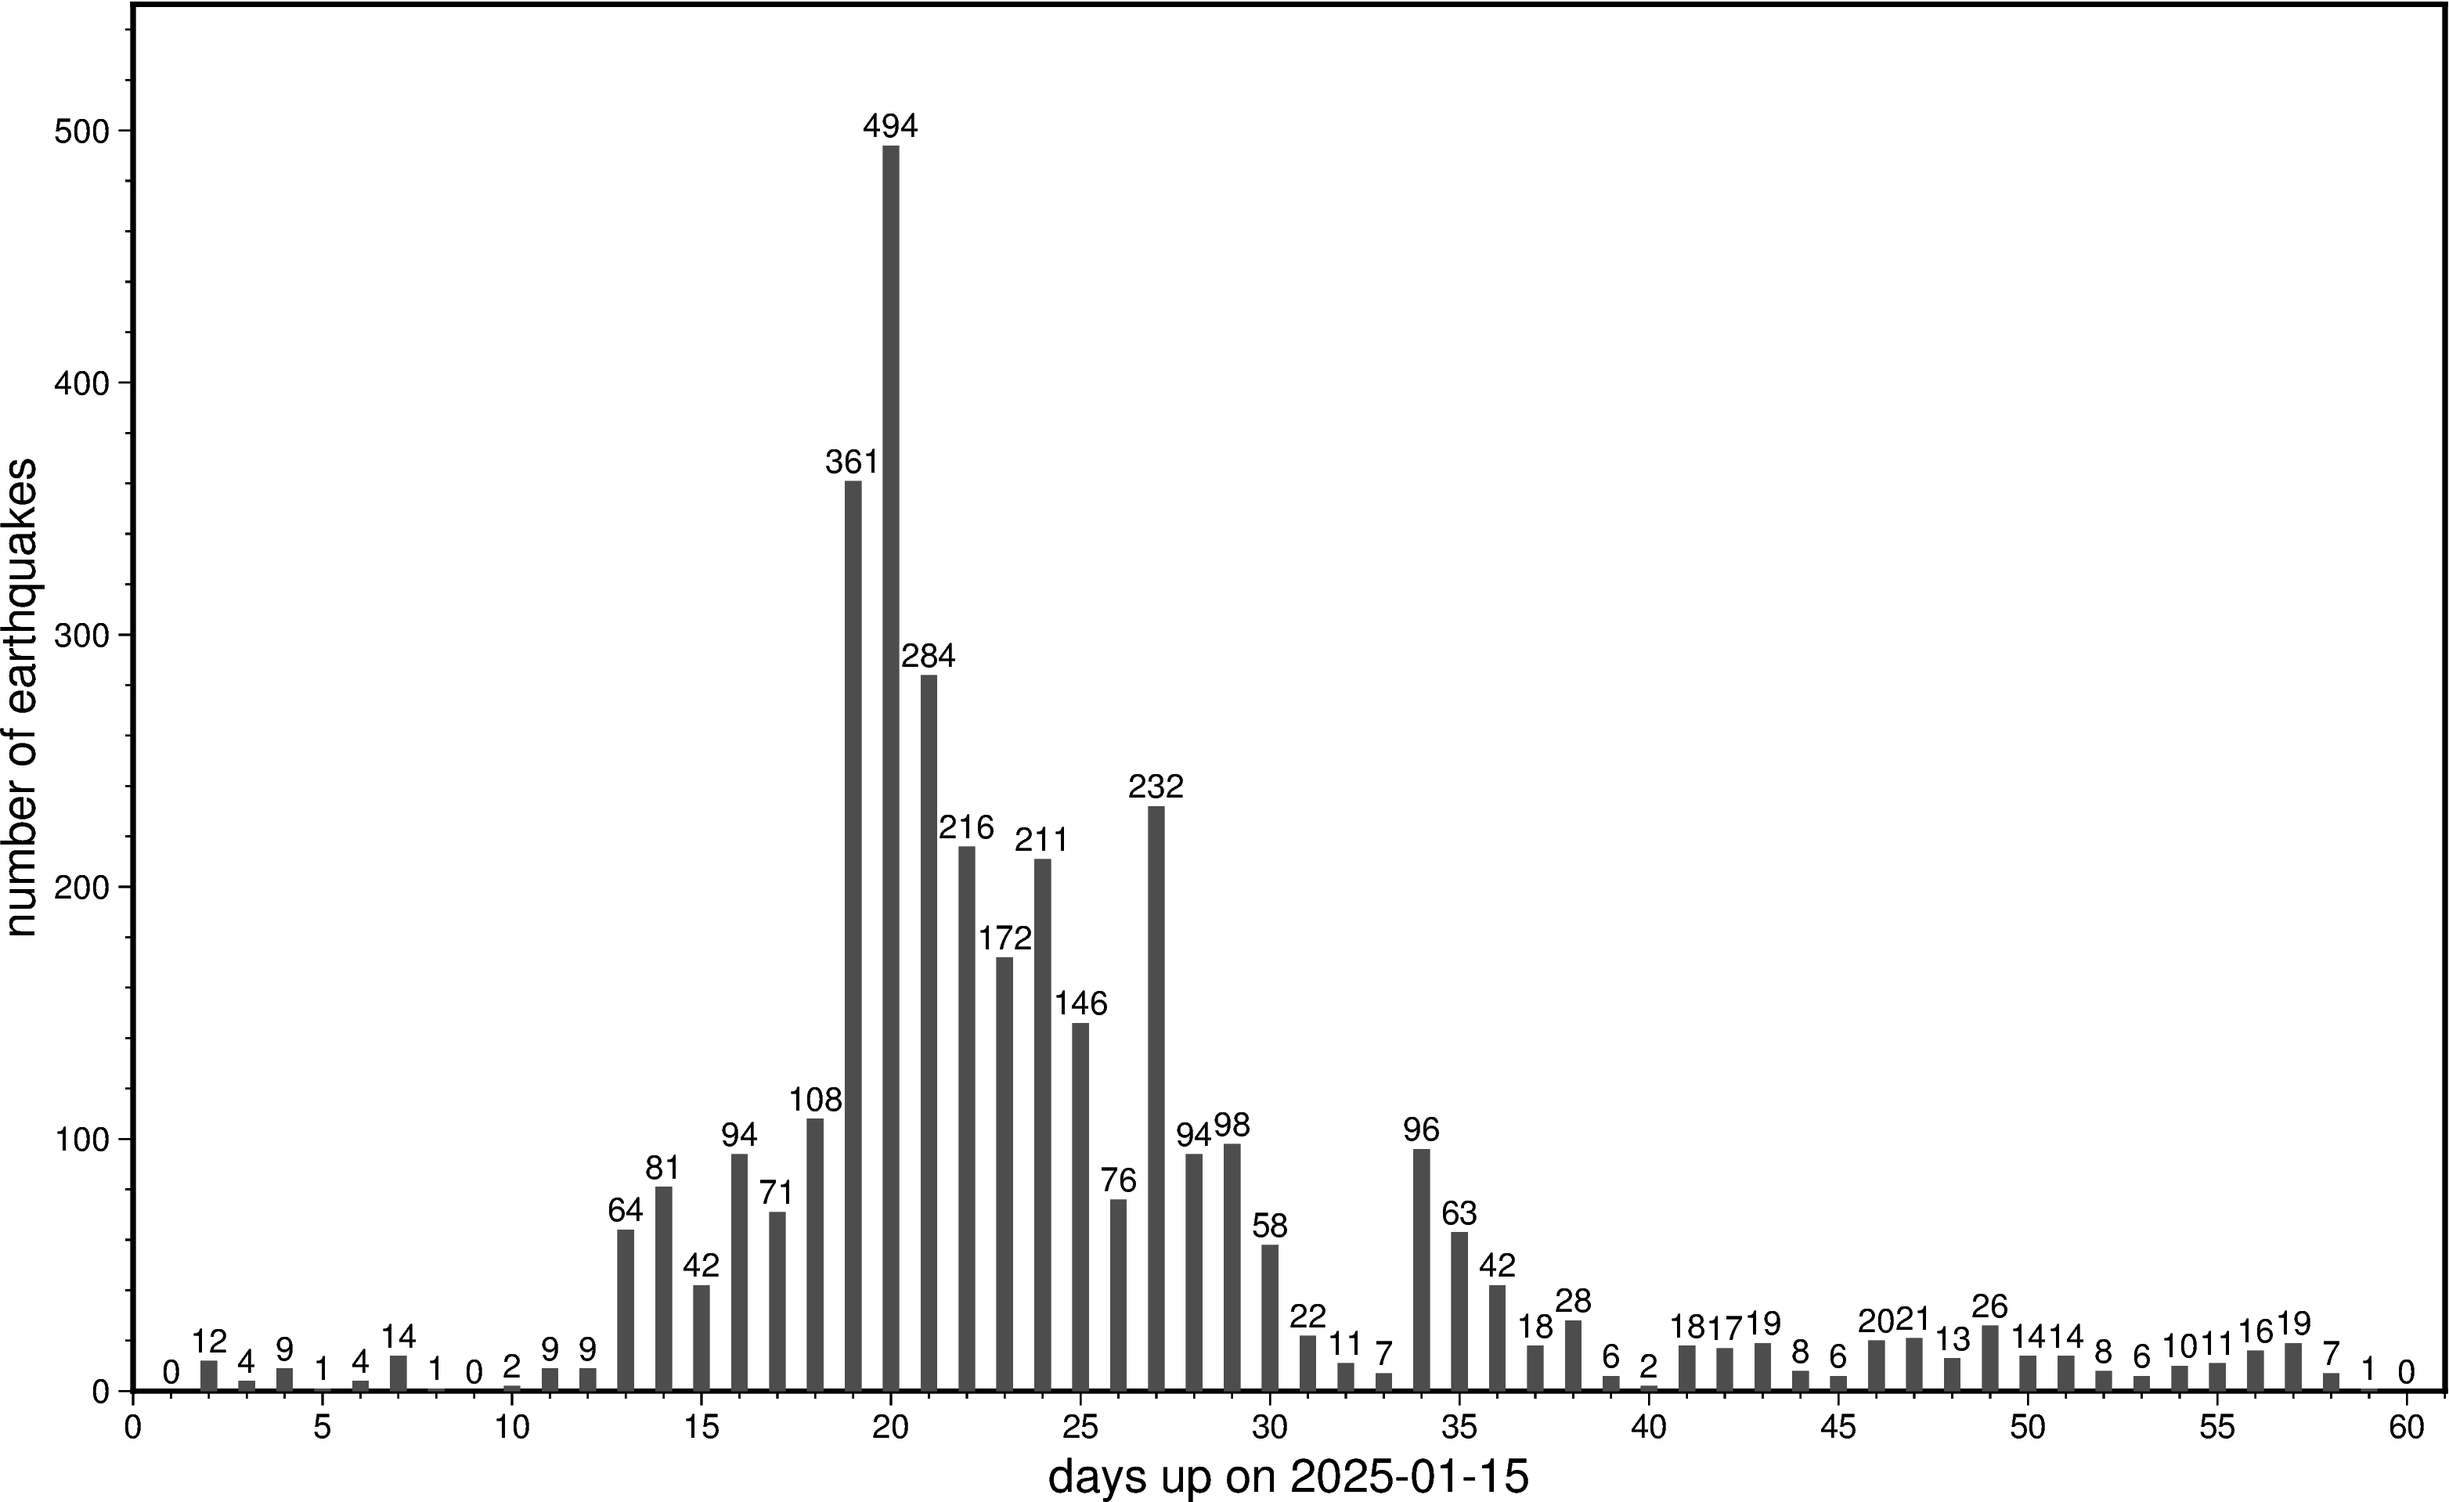
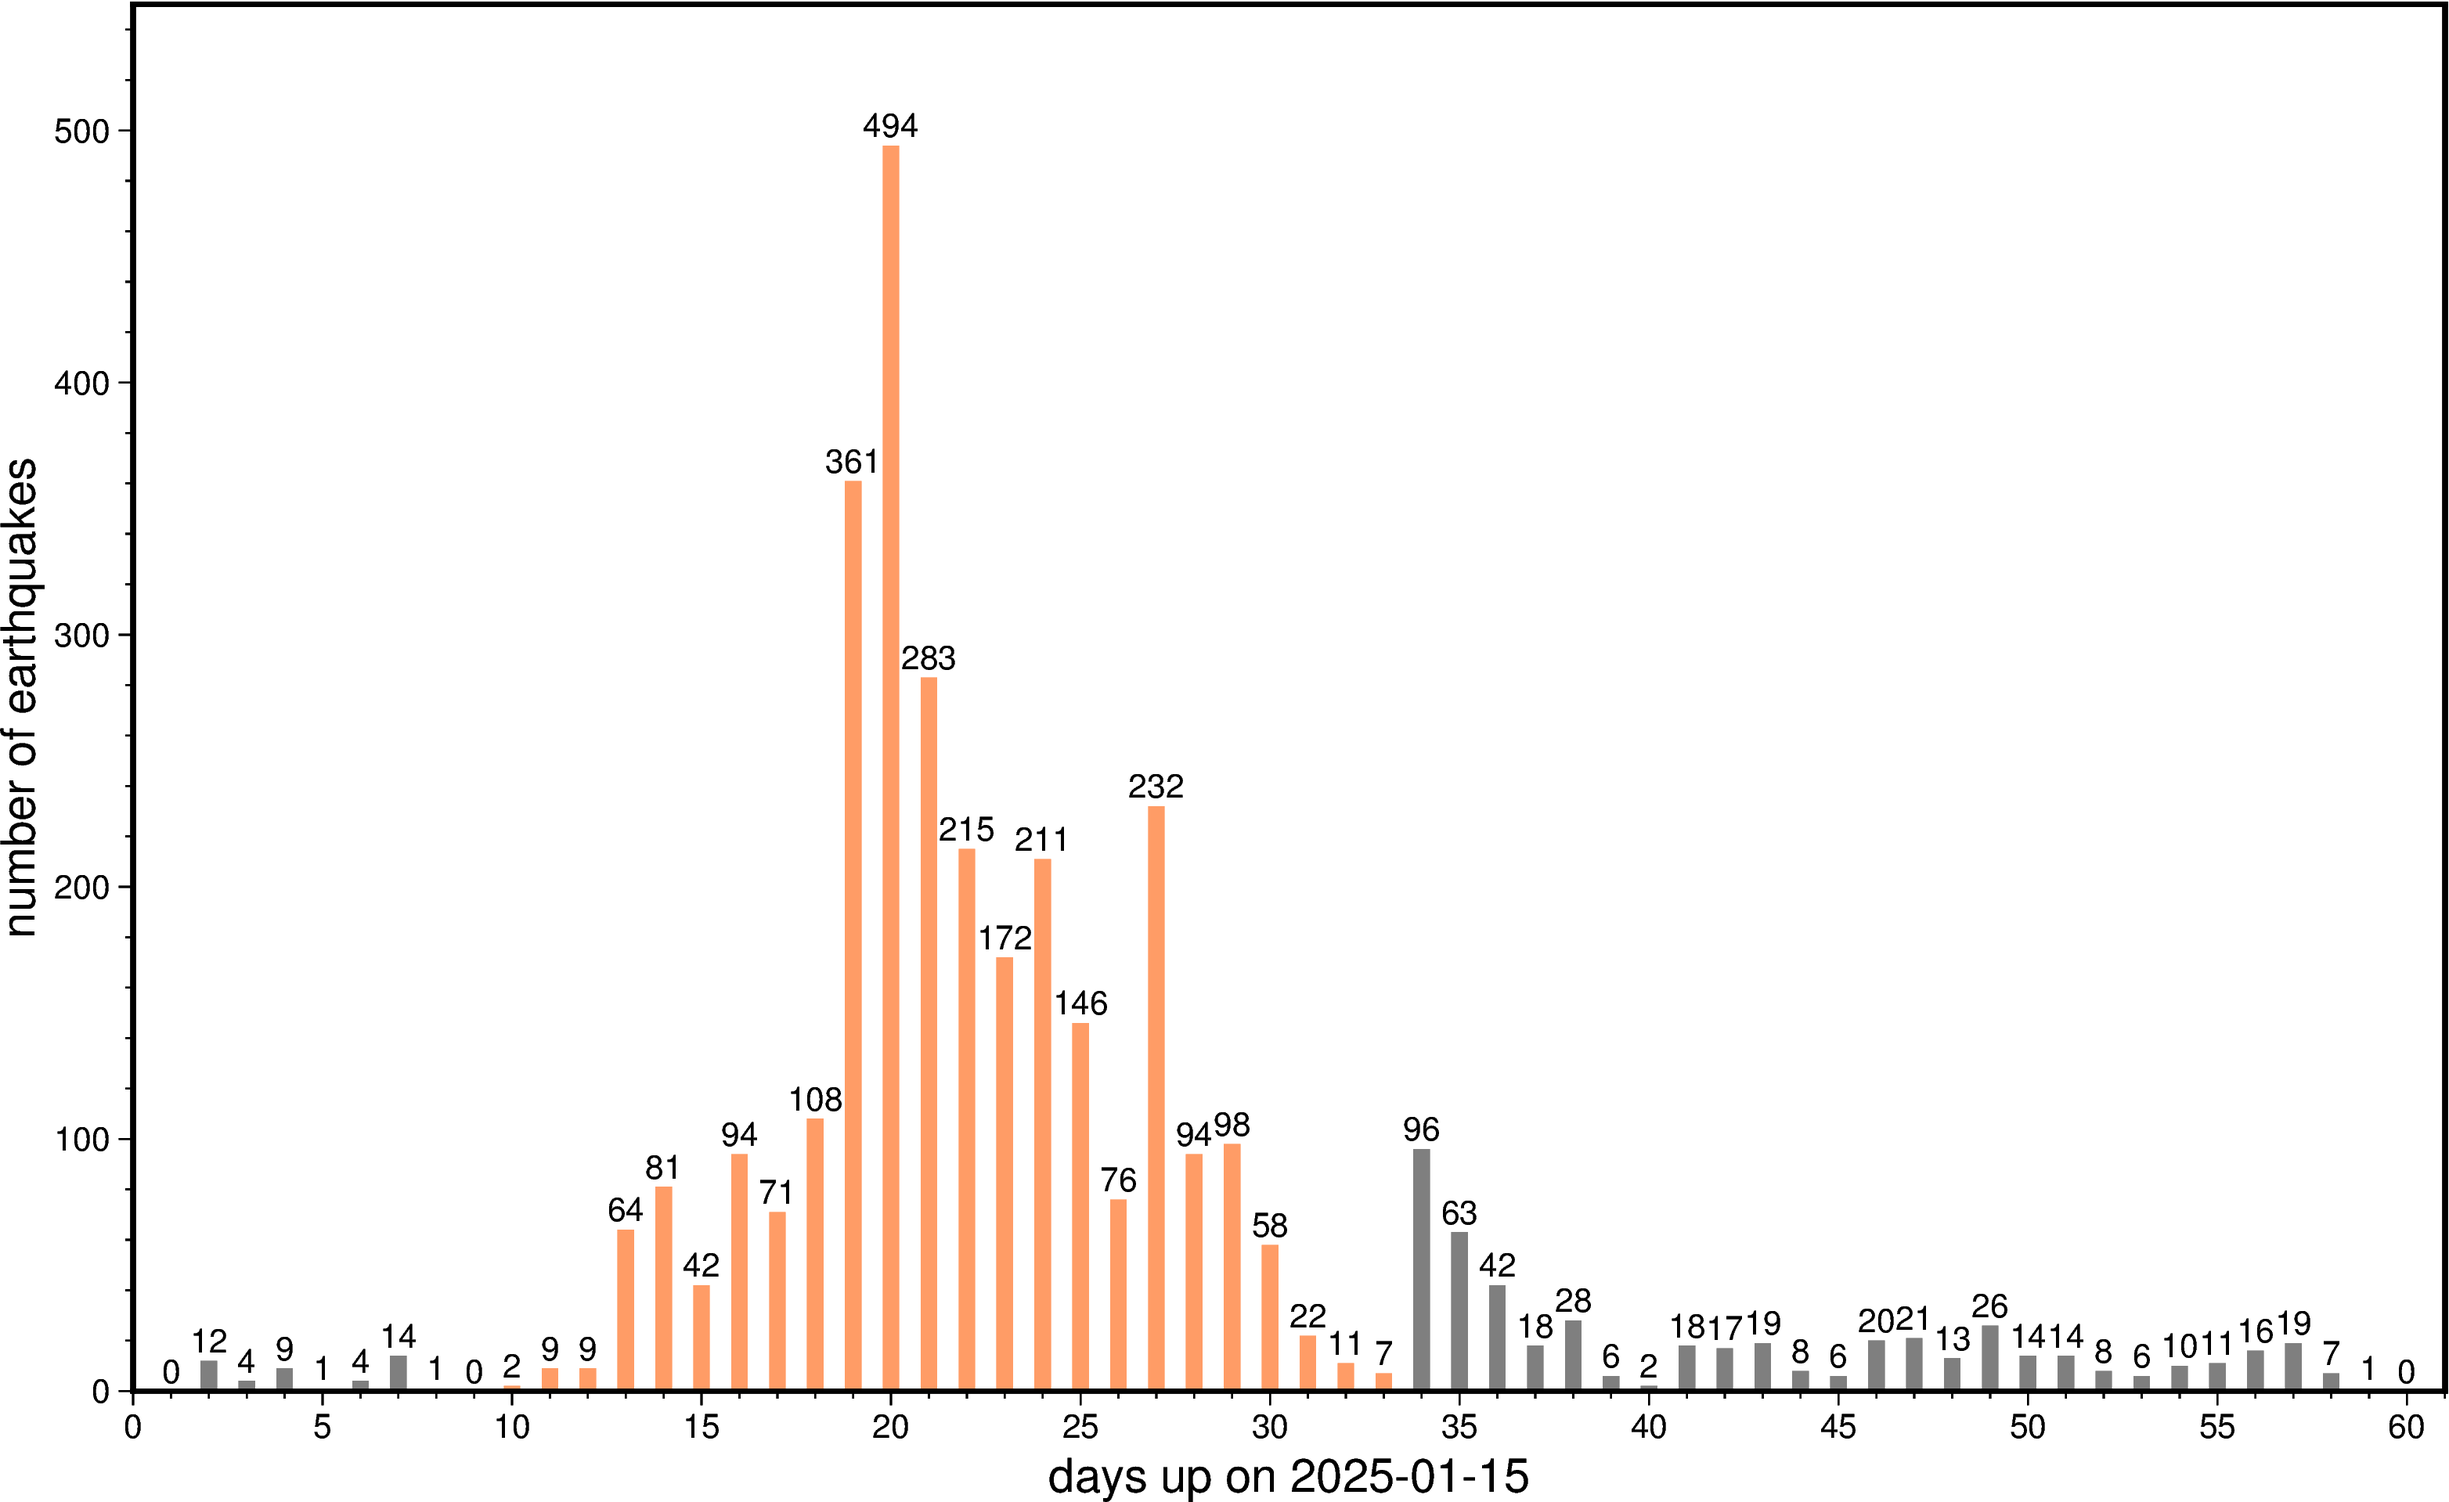
Add histograms for magnitude distribution per day

diff --git a/015_santorini_earthquakes/santorini_earthquakes.py b/015_santorini_earthquakes/santorini_earthquakes.py
@@ -84,17 +84,62 @@ df_eq = df_eq_raw[df_eq_raw["date_time"] >= start_date_data]
 # -----------------------------------------------------------------------------
 # Make maps of epicenters with different color-codings over time
 # -----------------------------------------------------------------------------
+
+# Create Carthesian histogram for magnitude distribution per day
+fig_histo = gmt.Figure()
+gmt.config(FONT="8p", MAP_TITLE_OFFSET="3p", MAP_GRID_PEN_PRIMARY="0.1p,gray70")
+i_histo = 0
+
+# -----------------------------------------------------------------------------
 for i_day, day in enumerate(rrule(DAILY, dtstart=start_date_plot, until=end_date_plot)):
 
     df_eq_cum = df_eq[df_eq["date_time"] < (day + add_one_day)]
-    df_eq_before = df_eq[df_eq["date_time"] < day]
-    N_eqs_day = len(df_eq_cum) - len(df_eq_before)
+    df_eq_day = df_eq_cum[df_eq_cum["date_time"] > day]
+    N_eqs_day = len(df_eq_day)
     N_eqs_days[i_day] = N_eqs_day
 
     print(day)
-    print(len(df_eq_cum))
-    print(day + add_one_day)
-    print(len(df_eq_before))
+    # print(day + add_one_day)
+    # print(len(df_eq_day))
+    # print(len(df_eq_cum))
+
+# -----------------------------------------------------------------------------
+    if day > datetime.datetime(2025, 1, 23, 0, 0) and \
+        day < datetime.datetime(2025, 2, 17, 0, 0):
+
+        x_afg_l = "xf0.5g1"
+        y_afg_l = "yf5g5"
+        if i_histo > 17:
+            x_afg_l = "xa1f0.5g1+lmagnitude"
+        if i_histo in [0, 6, 12, 18]:
+            y_afg_l = "ya5g5+lnumber of earthquakes"
+
+        fig_histo.basemap(
+            region=[0, 6, 0, 40],
+            projection="X6c/5c",
+            frame=[
+                f"WStr+t@;{color_hl};{N_eqs_day}@;; earthquakes on @;{color_hl};" + \
+                    str(day).split(" ")[0] + "@;;",
+                x_afg_l, y_afg_l,
+            ],
+        )
+        if len(df_eq_day) > 0:
+            fig_histo.histogram(
+                data=df_eq_day["magnitude"],
+                series=0.1,
+                barwidth="0.08",
+                fill=f"{color_hl}@40",
+                histtype=0,  # counts
+            )
+        fig_histo.basemap(frame=0)
+
+        fig_histo.shift_origin(xshift="+w+0.2c")
+        if i_histo in [5, 11, 17, 23, 29]:
+            fig_histo.shift_origin(yshift="-h-0.7c", xshift="-37.2c")
+
+        i_histo = i_histo + 1
+
+        # fig_histo.show()
 
 # -----------------------------------------------------------------------------
     # Create 2-D map
@@ -123,7 +168,12 @@ for i_day, day in enumerate(rrule(DAILY, dtstart=start_date_plot, until=end_date
         cmap_fill = f"{path_in}/{cmap}_fill.cpt"
         gmt.makecpt(cmap=cmap, series=series, reverse=reverse, output=cmap_fill)
         cb_x_afg = ""
-        if fill_quantity=="date_time": cb_x_afg = "xa1O"
+        if fill_quantity=="date_time":
+            cb_x_afg = "xa1O"
+
+        z_label = " "
+        if fill_quantity=="magnitude":
+            z_label = "negative depth / km"
 
 # -----------------------------------------------------------------------------
         fig2d.basemap(projection="M12c", region=region, frame=["af", f"{frame}+t{title}"])
@@ -151,8 +201,6 @@ for i_day, day in enumerate(rrule(DAILY, dtstart=start_date_plot, until=end_date
         fig2d.shift_origin(xshift="w+0.5c")
 
 # -----------------------------------------------------------------------------
-        z_label = " "
-        if fill_quantity=="magnitude": z_label = "negative depth / km"
         fig3d.plot3d(
             projection="X15c",
             region=[lon_min, lon_max, lat_min, lat_max, -15, 0],
@@ -195,22 +243,22 @@ for i_day, day in enumerate(rrule(DAILY, dtstart=start_date_plot, until=end_date
 
 # -----------------------------------------------------------------------------
     fig_name = "d_santorini_earthquakes_" + str(day).split(" ")[0]
-
     fig2d.show()
     for ext in ["png"]:  # "pdf", "eps"
         fig2d.savefig(fname=f"{path_out}/2{fig_name}.{ext}")
-    print(fig_name)
-
     fig3d.show()
     for ext in ["png"]:  # "pdf", "eps"
         fig3d.savefig(fname=f"{path_out}/3{fig_name}.{ext}")
     print(fig_name)
 
+fig_histo.show()
+fig_name = "histo_santorini_magnitude_per_day"
+for ext in ["png"]:  # "pdf", "eps"
+    fig_histo.savefig(fname=f"{path_out}/{fig_name}.{ext}")
+print(fig_name)
 
-# %%
 # -----------------------------------------------------------------------------
 # Make bar plot for earthquakes per day
-# -----------------------------------------------------------------------------
 fig = gmt.Figure()
 fig.basemap(
     region=[0, len(N_eqs_days) + 1, 0, 550],
@@ -222,11 +270,16 @@ fig.basemap(
 )
 
 for i_day, x_day in enumerate(x_days):
-    fig.plot(x=[x_day, x_day], y=[0, N_eqs_days[i_day]], pen="5p,gray30")
+    fill_bar = "gray50"
+    if x_day > 9 and x_day < 34:
+        fill_bar = f"{color_hl}@40"
+    fig.plot(x=[x_day, x_day], y=[0, N_eqs_days[i_day]], pen=f"5p,{fill_bar}")
     fig.text(text=N_eqs_days[i_day], x=x_day, y=N_eqs_days[i_day] + 8)
 
+fig.basemap(frame=0)
+
 fig.show()
-fig_name = "11_santorini_earthquakes_per_day"
+fig_name = "histo_santorini_earthquakes_per_day"
 for ext in ["png"]:  # "pdf", "eps"
     fig.savefig(fname=f"{path_out}/{fig_name}.{ext}")
 print(fig_name)
